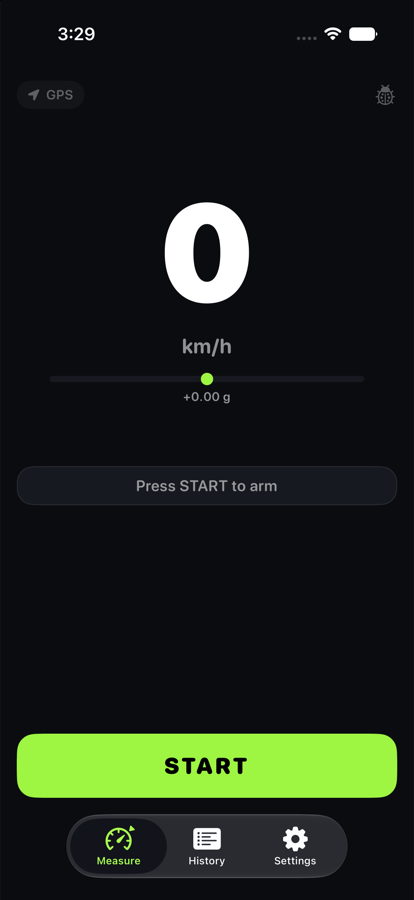
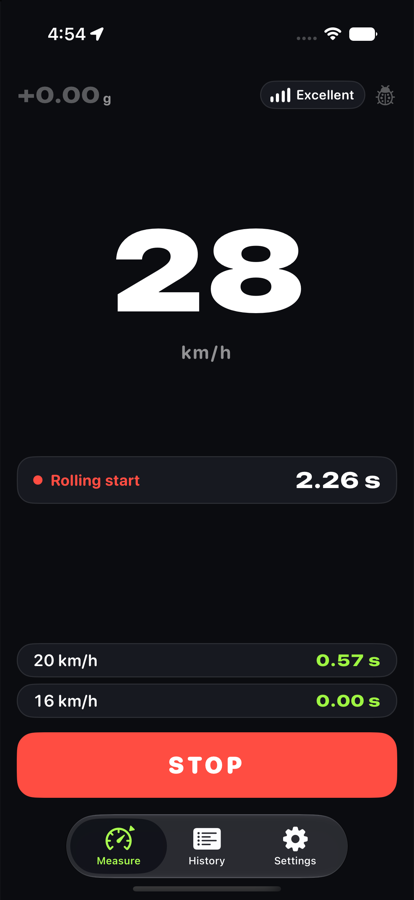
README: скриншоты нового интерфейса, версия 1.2.0
Пересняты все экраны: широкий SF Pro Expanded Black, перегрузка
числом слева, лесенка GPS справа, карта маршрута и настройки с
выбором темы и акцента. Кадров стало шесть, разложены в два ряда.

Версия поднята до 1.2.0 (build 3).

diff --git a/README.md b/README.md
@@ -12,10 +12,13 @@
 [![SwiftUI](https://img.shields.io/badge/SwiftUI-0B84FF?style=for-the-badge&logo=swift&logoColor=white)](https://developer.apple.com/xcode/swiftui/)
 [![Xcode](https://img.shields.io/badge/Xcode-26-1575F9?style=for-the-badge&logo=xcode&logoColor=white)](https://developer.apple.com/xcode/)
 
-<img src="Design/screenshots/01-measure.png" width="200" alt="Measure">&nbsp;
-<img src="Design/screenshots/02-result.png" width="200" alt="Result">&nbsp;
-<img src="Design/screenshots/03-scrub.png" width="200" alt="Chart scrubbing">&nbsp;
-<img src="Design/screenshots/04-history.png" width="200" alt="History">
+<img src="Design/screenshots/01-measure.png" width="185" alt="Measure">&nbsp;
+<img src="Design/screenshots/02-result.png" width="185" alt="Result">&nbsp;
+<img src="Design/screenshots/03-scrub.png" width="185" alt="Chart scrubbing">
+
+<img src="Design/screenshots/04-route.png" width="185" alt="Route map">&nbsp;
+<img src="Design/screenshots/05-history.png" width="185" alt="History">&nbsp;
+<img src="Design/screenshots/06-settings.png" width="185" alt="Settings">
 
 </div>
 
@@ -43,6 +46,7 @@ A Draggy-style performance meter that runs on one iPhone — no external GNSS re
 | **Background** | Keeps measuring with the screen off or while you're in another app |
 | **History** | Every run stored on device with its chart and full table |
 | **Units** | km/h and mph, meters and feet, °C and °F |
+| **Appearance** | Light, dark or system theme; eight accent colors |
 
 ## How the accuracy works
 
